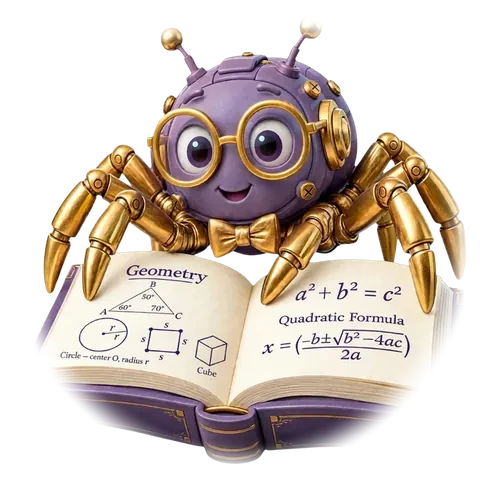
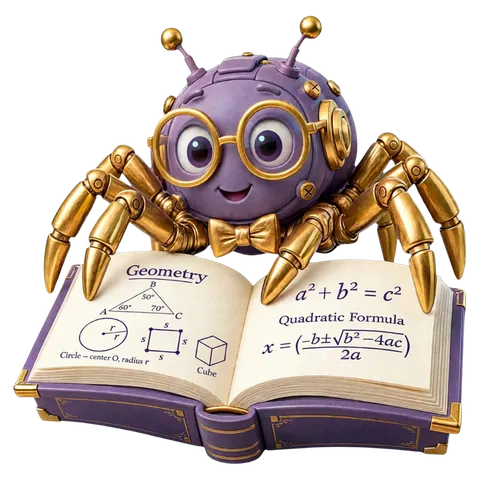
Revert "fix(landing-hero): remove harsh square edges on mascot with smooth radial gradient blend"
This reverts commit dab7d338eb3342a648be5f5890c284f14d64981e.

Changed region(s): [[0.0312, 0.375, 0.9688, 0.9688], [0.625, 0.0312, 0.6875, 0.0938], [0.3125, 0.0312, 0.375, 0.0938]]

diff --git a/src/app/features/guest-portal/landing-home/landing-home.component.html b/src/app/features/guest-portal/landing-home/landing-home.component.html
@@ -112,8 +112,8 @@
           </div>
 
           <div class="relative w-full max-w-md lg:max-w-lg flex flex-col items-center">
-            <!-- 3D Mascot Image with Book (Transparent WebP with Gentle Float & Smooth Radial Blend) -->
-            <div class="mascot-blend-wrapper relative z-10 w-full flex items-center justify-center pt-6">
+            <!-- 3D Mascot Image with Book (Transparent WebP with Gentle Float) -->
+            <div class="relative z-10 w-full flex items-center justify-center pt-6">
               <img
                 [attr.srcset]="langService.isArabic() ? '/assets/branding/spider-mascot-hero-book-ar-sm-v3.webp?v=12 480w, /assets/branding/spider-mascot-hero-book-ar-v3.webp?v=12 640w' : '/assets/branding/spider-mascot-hero-book-sm-v3.webp?v=12 480w, /assets/branding/spider-mascot-hero-book-v3.webp?v=12 640w'"
                 sizes="(max-width: 640px) 360px, (max-width: 1023px) 440px, 500px"
@@ -123,7 +123,7 @@
                 height="640"
                 fetchpriority="high"
                 decoding="sync"
-                class="mascot-blend-img w-full max-w-[360px] sm:max-w-[440px] lg:max-w-[500px] aspect-square h-auto object-contain drop-shadow-[0_14px_24px_rgba(0,0,0,0.42)] animate-mascot-float"
+                class="w-full max-w-[360px] sm:max-w-[440px] lg:max-w-[500px] aspect-square h-auto object-contain drop-shadow-[0_14px_24px_rgba(0,0,0,0.42)] animate-mascot-float"
               />
             </div>
           </div>

diff --git a/src/app/features/guest-portal/landing-home/landing-home.component.scss b/src/app/features/guest-portal/landing-home/landing-home.component.scss
@@ -483,42 +483,6 @@ $axis-blue: #0284C7;
   backface-visibility: hidden;
 }
 
-// Mascot Smooth Radial Gradient Blend & Borderless Soft Vignette
-// Completely eliminates rectangular edge artifacts and seamlessly blends the 3D mascot into the dark canvas
-.mascot-blend-wrapper {
-  -webkit-mask-image: radial-gradient(
-    ellipse 85% 82% at 50% 50%,
-    #000 62%,
-    rgba(0, 0, 0, 0.94) 74%,
-    rgba(0, 0, 0, 0.45) 88%,
-    transparent 100%
-  );
-  mask-image: radial-gradient(
-    ellipse 85% 82% at 50% 50%,
-    #000 62%,
-    rgba(0, 0, 0, 0.94) 74%,
-    rgba(0, 0, 0, 0.45) 88%,
-    transparent 100%
-  );
-}
-
-.mascot-blend-img {
-  -webkit-mask-image: radial-gradient(
-    ellipse 86% 84% at 50% 50%,
-    #000 65%,
-    rgba(0, 0, 0, 0.95) 76%,
-    rgba(0, 0, 0, 0.5) 90%,
-    transparent 100%
-  );
-  mask-image: radial-gradient(
-    ellipse 86% 84% at 50% 50%,
-    #000 65%,
-    rgba(0, 0, 0, 0.95) 76%,
-    rgba(0, 0, 0, 0.5) 90%,
-    transparent 100%
-  );
-}
-
 // Below-the-fold layout/style isolation for fast initial Hero LCP layout
 .landing-below-fold-section {
   contain: layout style;
